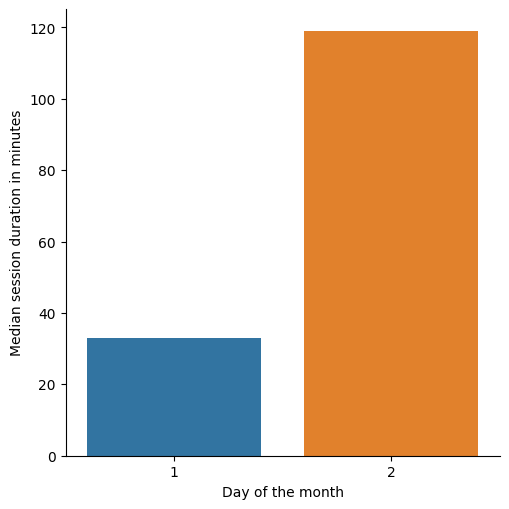
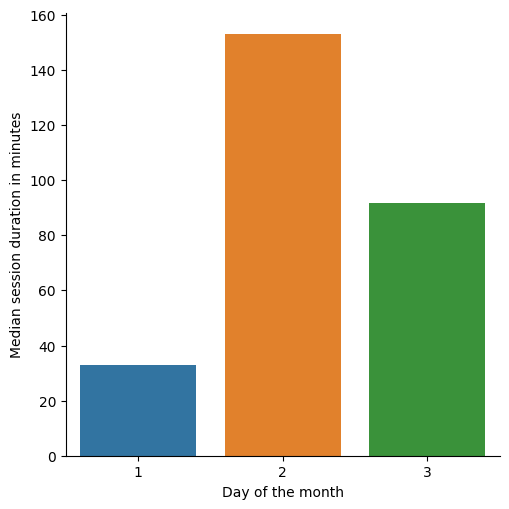
"Stats generated 2021-06-04"

diff --git a/all/2021/6/weekdays/3/index.html b/all/2021/6/weekdays/3/index.html
@@ -1,0 +1,29 @@
+<!DOCTYPE html>
+<html>
+  <head>
+    <meta charset="utf-8"/>
+    <title>Thursdays June 2021</title>
+    <link rel="stylesheet" href="../../../../../styles.css"/>
+  </head>
+  <body>
+    <div id="container">
+      <nav>
+        <ul>
+          
+            <li><a href="../../">June 2021</a></li>
+            <li class="separator"></li>
+          
+          
+        </ul>
+      </nav>
+      <main>
+        <h1>Thursdays June 2021</h1>
+        
+          <h2>Number of sessions per hour</h2>
+          <img src="sessions.png" alt="Number of sessions per hour"/>
+        
+        
+      </main>
+    </div>
+  </body>
+</html>

diff --git a/all/2021/6/days/3/index.html b/all/2021/6/days/3/index.html
@@ -1,0 +1,29 @@
+<!DOCTYPE html>
+<html>
+  <head>
+    <meta charset="utf-8"/>
+    <title>3 June 2021</title>
+    <link rel="stylesheet" href="../../../../../styles.css"/>
+  </head>
+  <body>
+    <div id="container">
+      <nav>
+        <ul>
+          
+            <li><a href="../../">June 2021</a></li>
+            <li class="separator"></li>
+          
+          
+        </ul>
+      </nav>
+      <main>
+        <h1>3 June 2021</h1>
+        
+          <h2>Number of sessions per hour</h2>
+          <img src="sessions.png" alt="Number of sessions per hour"/>
+        
+        
+      </main>
+    </div>
+  </body>
+</html>

diff --git a/all/2021/6/index.html b/all/2021/6/index.html
@@ -27,6 +27,10 @@
             
           
             
+              <li><a href="weekdays/3/">Thursday</a></li>
+            
+          
+            
               <li><span>Day of Month</span></li>
             
           
@@ -36,6 +40,10 @@
           
             
               <li><a href="days/2/">2</a></li>
+            
+          
+            
+              <li><a href="days/3/">3</a></li>
             
           
         </ul>

diff --git a/all/2021/index.html b/all/2021/index.html
@@ -107,9 +107,9 @@
                   
                     <td>6.0</td>
                   
-                    <td>5.0</td>
+                    <td>10.0</td>
                   
-                    <td>60.72579295</td>
+                    <td>91.72171995833332</td>
                   
                 </tr>
               
